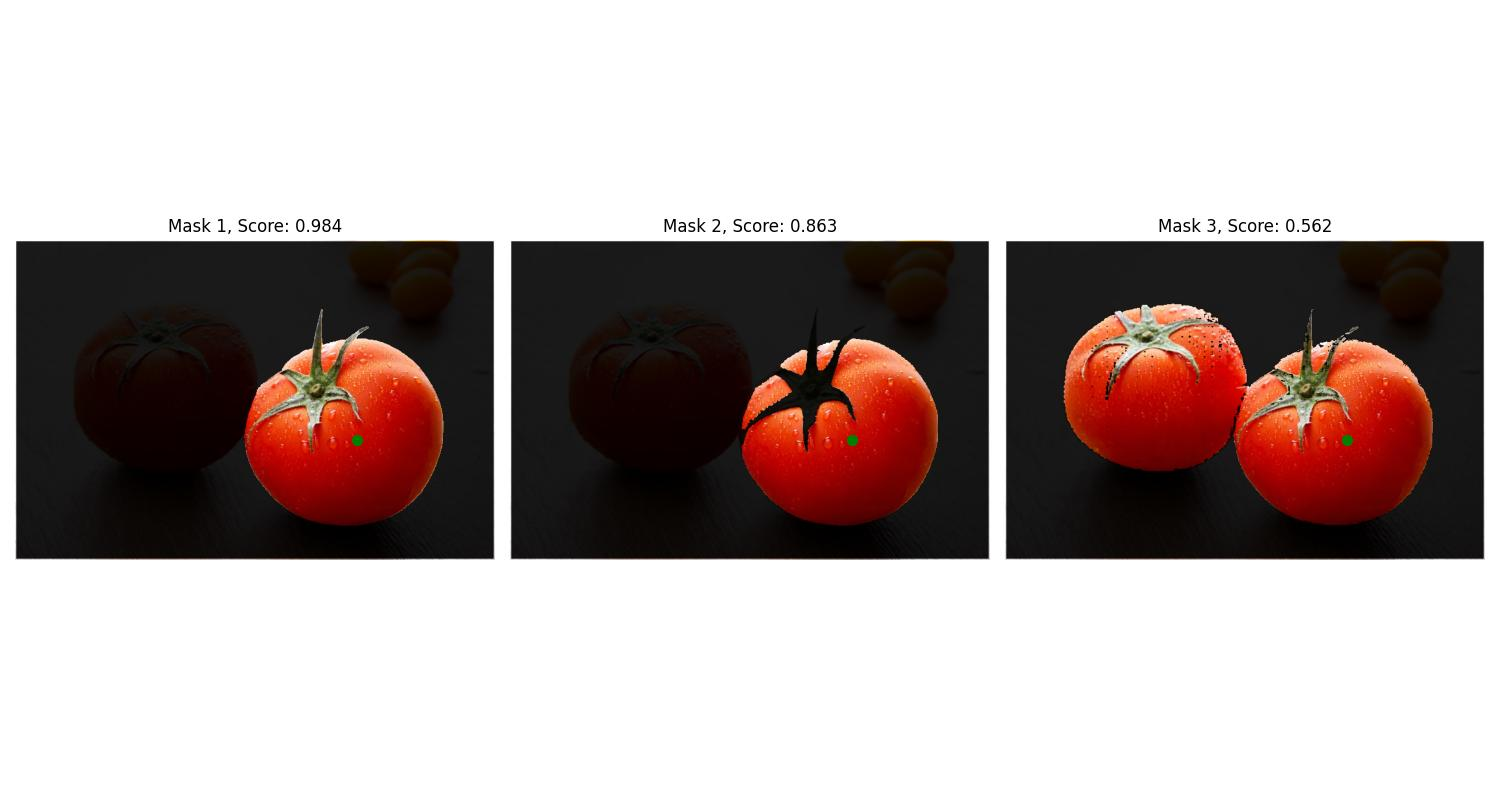
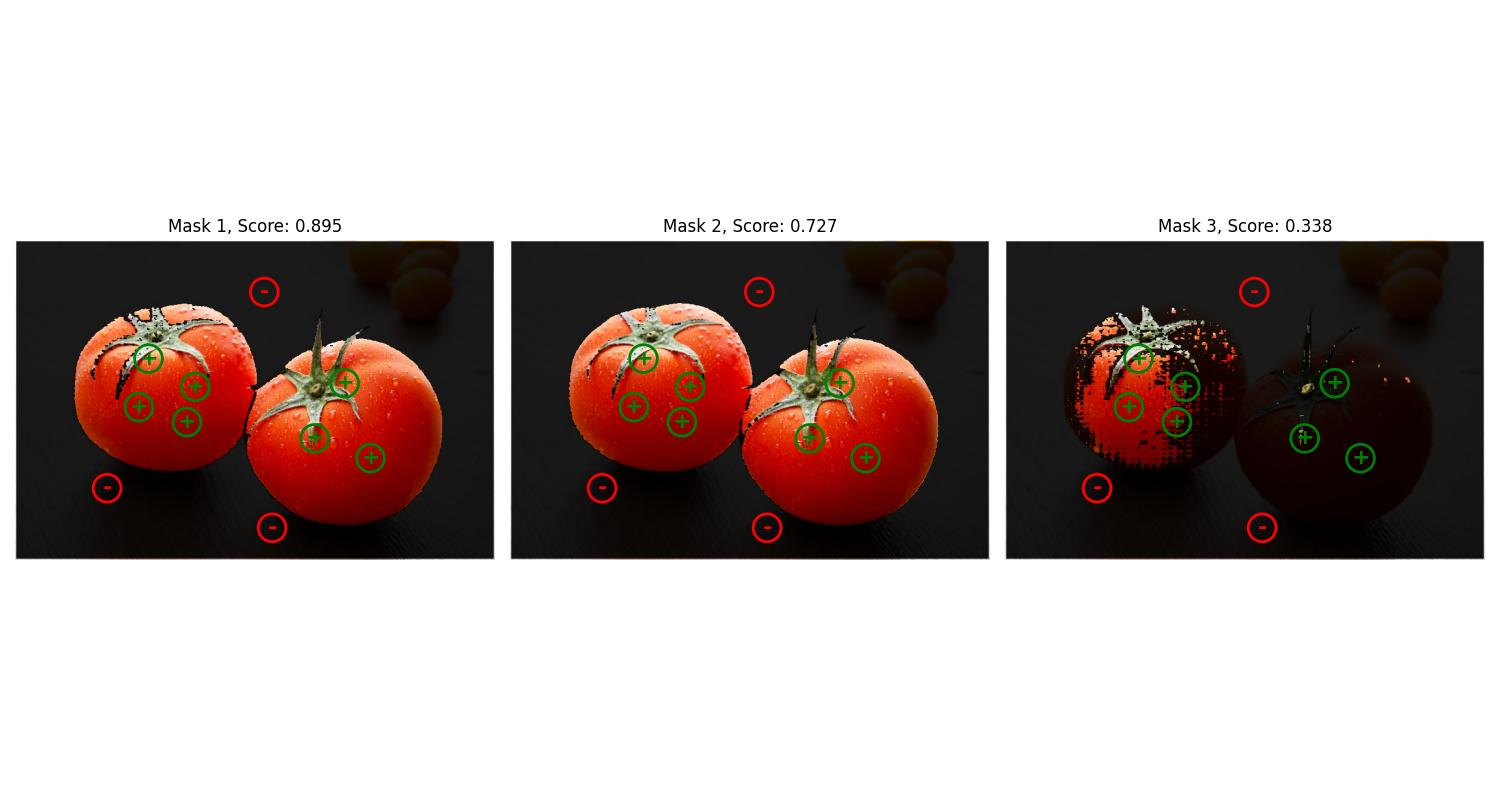
Add foreground/background point and frame selection

diff --git a/script/inference_video.py b/script/inference_video.py
@@ -6,7 +6,7 @@ import click
 from tqdm import tqdm
 
 from src.sam2.build_sam import build_sam2_video_predictor
-from src.utils.video import show_video_masks, save_video_with_masks, load_video, convert_to_mp4
+from src.utils.video import show_video_masks, save_video_with_masks, load_video, convert_to_mp4, select_frame_interactively
 from src.utils.prompt import get_click_point, get_bounding_box
 
 @click.command()
@@ -34,9 +34,9 @@ def main(prompt, video_path):
     model_cfg = "configs/sam2.1/sam2.1_hiera_l.yaml"
     predictor = build_sam2_video_predictor(model_cfg, sam2_checkpoint)
 
+    input_points, input_labels = [], []
     with torch.inference_mode(), torch.autocast("cuda", dtype=torch.bfloat16):
 
-        # Initialize the state of the video
         cap = cv2.VideoCapture(video_path)
         original_width = int(cap.get(cv2.CAP_PROP_FRAME_WIDTH))
         original_height = int(cap.get(cv2.CAP_PROP_FRAME_HEIGHT))
@@ -44,27 +44,34 @@ def main(prompt, video_path):
 
         state = predictor.init_state(video_path)
 
-        # Get the first frame of the video
-        image = state["images"][0].cpu().permute(1, 2, 0).numpy()
+        # select frame ( default: 0th frame, move with a/d key (0.2s unit))
+        selected_frame_idx = select_frame_interactively(video_path, default_frame_idx=0, jump_seconds=0.2)
+        print(f"Selected frame: {selected_frame_idx}")
+
+        image = state["images"][selected_frame_idx].cpu().permute(1, 2, 0).numpy()
         image = cv2.resize(image, (original_width, original_height))
 
-        # Add the new points or bounding box to the video
+        # apply click point or bounding box prompt on the selected frame
         if prompt == "p":
-            input_point = get_click_point(image)
-            frame_idx, object_ids, masks = predictor.add_new_points(inference_state=state, points=input_point, labels=[1], frame_idx=0, obj_id=1)
+            input_points, input_labels = get_click_point(image, input_points, input_labels)
+            frame_idx, object_ids, masks = predictor.add_new_points(inference_state=state, points=input_points, labels=input_labels, frame_idx=selected_frame_idx, obj_id=1)
         elif prompt == "b":
             input_box = get_bounding_box(image)
-            frame_idx, object_ids, masks = predictor.add_new_points_or_box(inference_state=state, box=input_box, frame_idx=0, obj_id=1)
+            frame_idx, object_ids, masks = predictor.add_new_points_or_box(inference_state=state, box=input_box, frame_idx=selected_frame_idx, obj_id=1)
 
-        # Propagate the masks in the video
-        all_masks = []
-        for current_frame_idx, obj_ids, video_res_masks  in predictor.propagate_in_video(inference_state=state, start_frame_idx=frame_idx, max_frame_num_to_track=None, reverse=False):
-            all_masks.append(video_res_masks)
-
+        # propagate for the whole video
         frames = load_video(video_path)
+        num_frames = len(frames)
+        full_masks = [torch.zeros((original_height, original_width), dtype=torch.uint8) for _ in range(num_frames)]
+        
+        # perform propagation and fill the predicted mask in the corresponding frame index.
+        for current_frame_idx, obj_ids, video_res_masks in predictor.propagate_in_video(
+                inference_state=state, start_frame_idx=frame_idx, max_frame_num_to_track=None, reverse=False):
+            if current_frame_idx < num_frames:
+                full_masks[current_frame_idx] = video_res_masks
 
-        show_video_masks(frames, all_masks, 0)
-        save_video_with_masks(frames, all_masks, output_path)
+        show_video_masks(frames, full_masks, 0)
+        save_video_with_masks(frames, full_masks, output_path)
 
 if __name__ == "__main__":
     main()

diff --git a/demo/demo.py b/demo/demo.py
@@ -25,12 +25,13 @@ def demo_image(prompt, image_path, output_path):
     predictor = build_sam2_image_predictor(model_cfg, sam2_checkpoint)
     predictor.set_image(image)
 
+    input_points, input_labels = [], []
     with torch.inference_mode(), torch.autocast("cuda", dtype=torch.bfloat16):
         if prompt == "p":
-            input_point = get_click_point(image)
+            input_points, input_labels = get_click_point(image, input_points, input_labels)
             masks, scores, logits = predictor.predict(
-                point_coords=input_point,
-                point_labels= np.array([1]),
+                point_coords=input_points,
+                point_labels=input_labels,
                 multimask_output=True,
             )
             sorted_ind = np.argsort(scores)[::-1]
@@ -38,8 +39,8 @@ def demo_image(prompt, image_path, output_path):
             scores = scores[sorted_ind]
             logits = logits[sorted_ind]
 
-            show_image_masks_and_prompts(image, masks, scores, point_coords=input_point, input_labels=[1], borders=True)
-            save_image_with_masks_and_prompts(image, masks, scores, point_coords=input_point, input_labels=[1], borders=True, save_path=output_path)
+            show_image_masks_and_prompts(image, masks, scores, point_coords=input_points, input_labels=input_labels, borders=True)
+            save_image_with_masks_and_prompts(image, masks, scores, point_coords=input_points, input_labels=input_labels, borders=True, save_path=output_path)
 
         elif prompt == "b":
             input_box = get_bounding_box(image)
@@ -58,6 +59,7 @@ def demo_image(prompt, image_path, output_path):
 def demo_video(prompt, video_path, output_path):
     predictor = build_sam2_video_predictor(model_cfg, sam2_checkpoint)
 
+    input_points, input_labels = [], []
     with torch.inference_mode(), torch.autocast("cuda", dtype=torch.bfloat16):
         # Initialize the state of the video
         cap = cv2.VideoCapture(video_path)
@@ -73,8 +75,8 @@ def demo_video(prompt, video_path, output_path):
 
         # Add the new points or bounding box to the video
         if prompt == "p":
-            input_point = get_click_point(image)
-            frame_idx, object_ids, masks = predictor.add_new_points(inference_state=state, points=input_point, labels=[1], frame_idx=0, obj_id=1)
+            input_points, input_labels = get_click_point(image, input_points, input_labels)
+            frame_idx, object_ids, masks = predictor.add_new_points(inference_state=state, points=input_points, labels=input_labels, frame_idx=0, obj_id=1)
         elif prompt == "b":
             input_box = get_bounding_box(image)
             frame_idx, object_ids, masks = predictor.add_new_points_or_box(inference_state=state, box=input_box, frame_idx=0, obj_id=1)

diff --git a/src/utils/prompt.py b/src/utils/prompt.py
@@ -1,25 +1,43 @@
 import cv2
 import numpy as np
 
-def get_click_point(image):
+def get_click_point(image, input_points, input_labels):
     """
-    Get the click point of the object in the image
+    Show the click point of the object in the image, and update the current prompt (click point) in real-time.
+    
+    When the left click is made, the green circle and '+' symbol are displayed in the image.
+    When the right click is made, the red circle and '-' symbol are displayed in the image.
     """
-    points = []
+    points, labels = input_points, input_labels
+    img_show = cv2.cvtColor(image.copy(), cv2.COLOR_RGB2BGR)
 
     def mouse_callback(event, x, y, flags, param):
+        nonlocal img_show
         if event == cv2.EVENT_LBUTTONDOWN:
             points.append((x, y))
+            labels.append(1)
+            cv2.circle(img_show, (x, y), 15, (0, 200, 0), 2)
+            cv2.putText(img_show, "+", (x - 13, y + 9), cv2.FONT_HERSHEY_SIMPLEX, 
+                        1, (0, 200, 0), 2, cv2.LINE_AA)
+            cv2.imshow("Select Object", img_show)
+        elif event == cv2.EVENT_RBUTTONDOWN:
+            points.append((x, y))
+            labels.append(0)
+            cv2.circle(img_show, (x, y), 15, (0, 0, 200), 2)
+            cv2.putText(img_show, "-", (x - 13, y + 9), cv2.FONT_HERSHEY_SIMPLEX, 
+                        1, (0, 0, 200), 2, cv2.LINE_AA)
+            cv2.imshow("Select Object", img_show)
 
-    cv2.imshow("Select Object", cv2.cvtColor(image, cv2.COLOR_RGB2BGR))
+    cv2.namedWindow("Select Object")
     cv2.setMouseCallback("Select Object", mouse_callback)
+    cv2.imshow("Select Object", img_show)
     
-    while len(points) == 0:
+    while True:
         if cv2.waitKey(1) & 0xFF == ord('q'):
             break
     
     cv2.destroyAllWindows()
-    return np.array(points)
+    return np.array(points), np.array(labels)
 
 def get_bounding_box(image):
     """
@@ -96,7 +114,7 @@ def process_keyboard_input(prompt):
     """
     Process keyboard input to update prompt mode
     
-    입력:
+    Input:
         prompt(dict): dictionary containing prompt settings
     Returns:
         True: user requests termination by pressing 'q' key

diff --git a/src/utils/video.py b/src/utils/video.py
@@ -145,3 +145,54 @@ def save_video_with_masks(frames, masks, save_path):
     
     out.release()
     print(f"[Info] Video saved to {save_path}")
+
+
+def select_frame_interactively(video_path, default_frame_idx=0, jump_seconds=0.2):
+    """
+    Select the frame interactively
+
+    video_path: path to the video file
+    default_frame_idx: default frame index
+    jump_seconds: jump seconds
+    """
+    cap = cv2.VideoCapture(video_path)
+    fps = cap.get(cv2.CAP_PROP_FPS)
+    total_frames = int(cap.get(cv2.CAP_PROP_FRAME_COUNT))
+    if fps <= 0:
+        fps = 30 
+    jump_frames = int(fps * jump_seconds)
+    current_frame_idx = default_frame_idx
+
+    while True:
+        cap.set(cv2.CAP_PROP_POS_FRAMES, current_frame_idx)
+        ret, frame = cap.read()
+        if not ret:
+            print(f"Cannot read frame. Current frame index: {current_frame_idx}")
+            break
+
+        time_sec = current_frame_idx / fps
+
+        cv2.putText(frame, f"Frame: {current_frame_idx}  Time: {time_sec:.1f}s", (10, 30),
+                    cv2.FONT_HERSHEY_SIMPLEX, 1, (0, 255, 0), 2)
+        cv2.putText(frame, f"Left (a): -{jump_seconds}s, Right (d): +{jump_seconds}s, s: select, q: cancel", (10, 70),
+                    cv2.FONT_HERSHEY_SIMPLEX, 0.7, (0, 255, 0), 2)
+        
+        cv2.imshow(f"Frame selection (a/d: {jump_seconds}s move, s: select, q: cancel)", frame)
+        
+        key = cv2.waitKey(0) & 0xFF
+
+        if key == ord('s'):  # select
+            break
+        elif key == ord('q'):  # cancel
+            current_frame_idx = default_frame_idx
+            break
+        elif key == ord('a'):  # left move
+            current_frame_idx = max(0, current_frame_idx - jump_frames)
+        elif key == ord('d'):  # right move
+            current_frame_idx = min(total_frames - 1, current_frame_idx + jump_frames)
+        else:
+            print("Invalid key. Please use a, d, s or q key.")
+
+    cap.release()
+    cv2.destroyAllWindows()
+    return current_frame_idx

diff --git a/src/utils/image.py b/src/utils/image.py
@@ -30,10 +30,12 @@ def show_masks(mask, ax, borders=True):
 
 def show_points(point_coords, point_labels, ax):
     """
-    Show the points of the image
+    Show the points on the image
     
     point_coords: coordinates of the points
     point_labels: labels of the points
+                  if label is 1, show the green circle with '+' character,
+                  if label is 0, show the red circle with '-' character.
     ax: axis of the image
     """
     pos_points = np.array(point_coords)
@@ -43,8 +45,23 @@ def show_points(point_coords, point_labels, ax):
             pos_points = pos_points.reshape(1, 2)
     elif pos_points.shape[1] != 2:
         raise ValueError(f"[Error] Shape of point_coords is not valid: {pos_points.shape}")
-        
-    ax.scatter(pos_points[:, 0], pos_points[:, 1], c='green', s=50)
+    
+    if len(point_labels) != len(pos_points):
+        raise ValueError("[Error] Length of point_labels is not equal to the length of point_coords.")
+    
+    for (x, y), label in zip(pos_points, point_labels):
+        if label == 1:
+            ax.scatter(x, y, s=400, facecolors='none', edgecolors='green', linewidths=2)
+            ax.text(x, y, '+', color='green', fontsize=16, fontweight='bold',
+                    ha='center', va='center')
+        elif label == 0:
+            ax.scatter(x, y, s=400, facecolors='none', edgecolors='red', linewidths=2)
+            ax.text(x, y, '-', color='red', fontsize=16, fontweight='bold',
+                    ha='center', va='center')
+        else:
+            ax.scatter(x, y, s=400, facecolors='none', edgecolors='blue', linewidths=2)
+            ax.text(x, y, str(label), color='blue', fontsize=16, fontweight='bold',
+                    ha='center', va='center')
 
 def show_box(box, ax):
     """

diff --git a/script/inference_image.py b/script/inference_image.py
@@ -38,12 +38,13 @@ def main(prompt, image_path):
     predictor = build_sam2_image_predictor(model_cfg, sam2_checkpoint)
     predictor.set_image(image)
 
+    input_points, input_labels = [], []
     with torch.inference_mode(), torch.autocast("cuda", dtype=torch.bfloat16):
         if prompt == "p":
-            input_point = get_click_point(image)
+            input_points, input_labels = get_click_point(image, input_points, input_labels)
             masks, scores, logits = predictor.predict(
-                point_coords=input_point,
-                point_labels= np.array([1]),
+                point_coords=input_points,
+                point_labels=input_labels,
                 multimask_output=True,
             )
             sorted_ind = np.argsort(scores)[::-1]
@@ -51,8 +52,8 @@ def main(prompt, image_path):
             scores = scores[sorted_ind]
             logits = logits[sorted_ind]
 
-            show_image_masks_and_prompts(image, masks, scores, point_coords=input_point, input_labels=[1], borders=True)
-            save_image_with_masks_and_prompts(image, masks, scores, point_coords=input_point, input_labels=[1], borders=True, save_path=output_path)
+            show_image_masks_and_prompts(image, masks, scores, point_coords=input_points, input_labels=input_labels, borders=True)
+            save_image_with_masks_and_prompts(image, masks, scores, point_coords=input_points, input_labels=input_labels, borders=True, save_path=output_path)
 
         elif prompt == "b":
             input_box = get_bounding_box(image)
